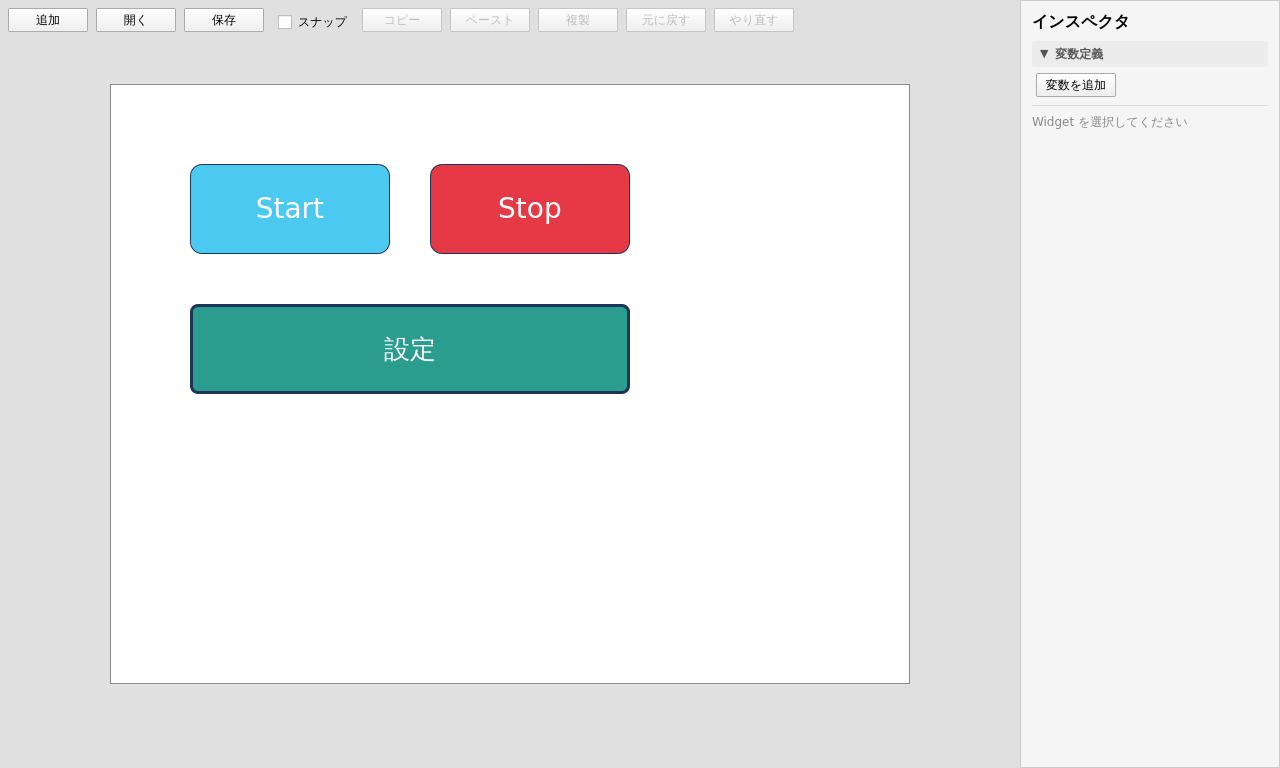
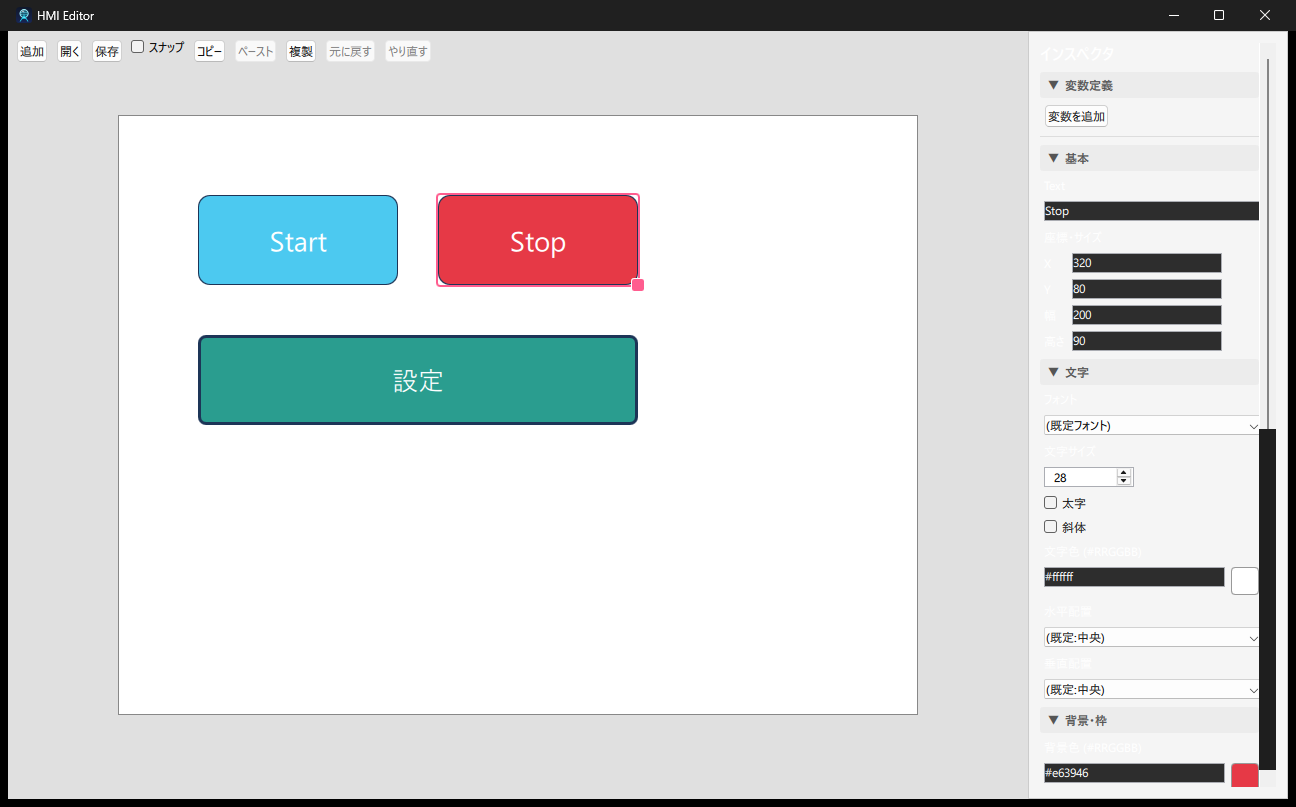
Task 46: 色入力に色スウォッチ + ColorDialog を追加（undo/redo の delegate 再利用バグ修正込み）
- 背景色 / 文字色 / ボーダー色の hex TextField の隣に ColorSwatch（現在色プレビュー）
  を追加。未指定時は Widget 種別の resolved 既定色を表示（Label は Task 48 の
  型対応までの暫定分岐）。クリックで共有 ColorDialog → #RRGGBB を live Item +
  TextField へ書き戻し（明示 beginEdit/commitEdit で 1 件 undo）
- 手入力欄・objectName・Schema は不変（E2E への影響なし）
- Canvas undo/redo 修正: 同数配列の再代入では Repeater が delegate を再利用し、
  インスペクタの命令的書き込みでバインディングが切れたプロパティに復元値が
  届かない。undo/redo で空配列を挟み delegate を確実に全再生成する
- editor.png を選択状態 + スウォッチ表示で撮り直し、README キャプション・
  進捗文書（inspector-ux-plan / development-history / CLAUDE.md / AGENTS.md /
  mvp-task-runner）を同期

diff --git a/Editor/qml/Main.qml b/Editor/qml/Main.qml
@@ -187,6 +187,29 @@ Window {
         }
     }
 
+    // Task 46: QML の color 値を Schema の "#RRGGBB" 形式へ変換する。
+    // ColorDialog の selectedColor（color 型）を hex TextField / live Item に
+    // 書き戻すときに使う（alpha は使わない。ColorDialog の alpha オプションも無効のまま）。
+    function colorToHex(c) {
+        function h(v) { return ("0" + Math.round(v * 255).toString(16)).slice(-2) }
+        return "#" + h(c.r) + h(c.g) + h(c.b)
+    }
+
+    // Task 46: 色スウォッチクリックで共有 ColorDialog を開く。field = 書き戻し先の
+    // hex TextField、targetProperty = 選択中 live Item のプロパティ名
+    //（"widgetBackgroundColor" 等）、fallback = 未指定時の既定色（HmiButton の
+    // resolved* と同じ値。ダイアログの初期色として使う）。
+    function openColorDialog(field, targetProperty, fallback) {
+        if (!canvas.selectedItem) {
+            return
+        }
+        inspectorColorDialog.targetField = field
+        inspectorColorDialog.targetProperty = targetProperty
+        inspectorColorDialog.selectedColor =
+            (field.text !== "" && field.acceptableInput) ? field.text : fallback
+        inspectorColorDialog.open()
+    }
+
     // Task 19: E2E（Spix の invokeMethod）から呼ぶ JSON 保存ラッパー。
     // FileDialog は AppleScript / Spix から自動操作できないため、Canvas 上の
     // EditableWidget 群を Shared/Schema 互換のリストへ変換 → ProjectIo.save に
@@ -327,6 +350,41 @@ Window {
         sequences: [StandardKey.Redo, "Ctrl+Shift+Z"]
         enabled: canvas.canRedo && !rootWindow.inspectorFieldFocused
         onActivated: canvas.redo()
+    }
+
+    // Task 46: hex TextField の隣に置く色スウォッチ（現在色のプレビュー兼
+    // ColorDialog の起動ボタン）。3 つの色フィールド（背景 / 文字 / ボーダー）で
+    // 使い回すインラインコンポーネント。field の hex が妥当ならその色、
+    // 空・編集途中は fallback（HmiButton の resolved* 既定色 = 実際の描画色）を見せる。
+    component ColorSwatch: Rectangle {
+        id: swatch
+        // 連動する hex TextField（現在色の参照元・ColorDialog の書き戻し先）。
+        property var field: null
+        // 選択中 live Item へ書き戻すプロパティ名（"widgetBackgroundColor" 等）。
+        property string targetProperty: ""
+        // 未指定（空文字）のとき見せる既定色。HmiButton の resolved* と揃える。
+        property color fallback: "white"
+
+        width: 28
+        height: 28
+        radius: 4
+        border.color: "#999999"
+        border.width: 1
+        color: (field && field.text !== "" && field.acceptableInput)
+            ? field.text : fallback
+
+        ToolTip.text: qsTr("クリックで色を選択")
+        ToolTip.visible: swatchArea.containsMouse
+        ToolTip.delay: 600
+
+        MouseArea {
+            id: swatchArea
+            anchors.fill: parent
+            hoverEnabled: true
+            cursorShape: Qt.PointingHandCursor
+            onClicked: rootWindow.openColorDialog(
+                swatch.field, swatch.targetProperty, swatch.fallback)
+        }
     }
 
     // 薄いグレーの余白背景
@@ -819,27 +877,49 @@ Window {
                             // 既定外観にフォールバックされる。編集は 2 本立て（onTextEdited で live
                             // Item へ書き戻し、Connections.onSelectedItemChanged で表示同期）。
                             Label { text: qsTr("文字色 (#RRGGBB)") }
-                            TextField {
-                                id: inspectorTextColorField
-                                objectName: "inspectorTextColorField"
-                                width: parent.width
-                                placeholderText: qsTr("white")
-                                // Codex PR #58 P2: 空 または 完全な #RRGGBB の時だけ反映する
-                                //（途中入力・不正値を live Item に書き戻さない）。
-                                validator: RegularExpressionValidator {
-                                    regularExpression: /^(#[0-9A-Fa-f]{6})?$/
-                                }
-                                onTextEdited: {
-                                    if (canvas.selectedItem && acceptableInput) {
-                                        canvas.selectedItem.widgetTextColor = text
+                            // Task 46: hex TextField + 色スウォッチ（プレビュー / クリックで
+                            // ColorDialog）。手入力欄はそのまま残す（E2E / 既存導線を維持）。
+                            // 幅は leftPadding（InspectorSection の content インデント）ぶん
+                            // 詰める：parent.width のままだと右端のスウォッチがインデント分
+                            // はみ出して ScrollView の clip に切られる。
+                            Row {
+                                width: parent.width - parent.leftPadding
+                                spacing: 6
+
+                                TextField {
+                                    id: inspectorTextColorField
+                                    objectName: "inspectorTextColorField"
+                                    width: parent.width - 34
+                                    placeholderText: qsTr("white")
+                                    // Codex PR #58 P2: 空 または 完全な #RRGGBB の時だけ反映する
+                                    //（途中入力・不正値を live Item に書き戻さない）。
+                                    validator: RegularExpressionValidator {
+                                        regularExpression: /^(#[0-9A-Fa-f]{6})?$/
+                                    }
+                                    onTextEdited: {
+                                        if (canvas.selectedItem && acceptableInput) {
+                                            canvas.selectedItem.widgetTextColor = text
+                                        }
+                                    }
+                                    Connections {
+                                        target: canvas
+                                        function onSelectedItemChanged() {
+                                            inspectorTextColorField.text = canvas.selectedItem
+                                                ? canvas.selectedItem.widgetTextColor : ""
+                                        }
                                     }
                                 }
-                                Connections {
-                                    target: canvas
-                                    function onSelectedItemChanged() {
-                                        inspectorTextColorField.text = canvas.selectedItem
-                                            ? canvas.selectedItem.widgetTextColor : ""
-                                    }
+                                ColorSwatch {
+                                    objectName: "inspectorTextColorSwatch"
+                                    anchors.verticalCenter: parent.verticalCenter
+                                    field: inspectorTextColorField
+                                    targetProperty: "widgetTextColor"
+                                    // 未指定時の既定色は Widget 種別の resolved* と揃える
+                                    //（HmiButton=white / HmiLabel=#1d3557。種別ごとの
+                                    // インスペクタ本対応は Task 48 で行う）。
+                                    fallback: (canvas.selectedItem
+                                               && canvas.selectedItem.widgetType === "Label")
+                                        ? "#1d3557" : "white"
                                 }
                             }
 
@@ -902,29 +982,49 @@ Window {
                             // Task 29: 背景色（"#RRGGBB" hex の TextField）。空文字は HmiButton 側で
                             // 既定外観にフォールバックされる（widgetBackgroundColor は空 = 未指定）。
                             Label { text: qsTr("背景色 (#RRGGBB)") }
-                            TextField {
-                                id: inspectorBgColorField
-                                objectName: "inspectorBgColorField"
-                                width: parent.width
-                                placeholderText: qsTr("#4cc9f0")
-                                // Codex PR #58 P2: 空 または 完全な #RRGGBB の時だけ live Item へ
-                                // 反映する。途中入力（"#ff"）や不正値（"redx"）が
-                                // widgetBackgroundColor に残ると JSON に無効色が保存され、
-                                // Simulator/Runtime の描画で無効色になるため。
-                                validator: RegularExpressionValidator {
-                                    regularExpression: /^(#[0-9A-Fa-f]{6})?$/
-                                }
-                                onTextEdited: {
-                                    if (canvas.selectedItem && acceptableInput) {
-                                        canvas.selectedItem.widgetBackgroundColor = text
+                            // Task 46: hex TextField + 色スウォッチ（プレビュー / クリックで
+                            // ColorDialog）。手入力欄はそのまま残す（E2E / 既存導線を維持）。
+                            // 幅補正は文字色の Row と同じ（leftPadding ぶん詰める）。
+                            Row {
+                                width: parent.width - parent.leftPadding
+                                spacing: 6
+
+                                TextField {
+                                    id: inspectorBgColorField
+                                    objectName: "inspectorBgColorField"
+                                    width: parent.width - 34
+                                    placeholderText: qsTr("#4cc9f0")
+                                    // Codex PR #58 P2: 空 または 完全な #RRGGBB の時だけ live Item へ
+                                    // 反映する。途中入力（"#ff"）や不正値（"redx"）が
+                                    // widgetBackgroundColor に残ると JSON に無効色が保存され、
+                                    // Simulator/Runtime の描画で無効色になるため。
+                                    validator: RegularExpressionValidator {
+                                        regularExpression: /^(#[0-9A-Fa-f]{6})?$/
+                                    }
+                                    onTextEdited: {
+                                        if (canvas.selectedItem && acceptableInput) {
+                                            canvas.selectedItem.widgetBackgroundColor = text
+                                        }
+                                    }
+                                    Connections {
+                                        target: canvas
+                                        function onSelectedItemChanged() {
+                                            inspectorBgColorField.text = canvas.selectedItem
+                                                ? canvas.selectedItem.widgetBackgroundColor : ""
+                                        }
                                     }
                                 }
-                                Connections {
-                                    target: canvas
-                                    function onSelectedItemChanged() {
-                                        inspectorBgColorField.text = canvas.selectedItem
-                                            ? canvas.selectedItem.widgetBackgroundColor : ""
-                                    }
+                                ColorSwatch {
+                                    objectName: "inspectorBgColorSwatch"
+                                    anchors.verticalCenter: parent.verticalCenter
+                                    field: inspectorBgColorField
+                                    targetProperty: "widgetBackgroundColor"
+                                    // 未指定時の既定色は Widget 種別の resolved* と揃える
+                                    //（HmiButton=#4cc9f0 / HmiLabel=transparent。種別ごとの
+                                    // インスペクタ本対応は Task 48 で行う）。
+                                    fallback: (canvas.selectedItem
+                                               && canvas.selectedItem.widgetType === "Label")
+                                        ? "transparent" : "#4cc9f0"
                                 }
                             }
 
@@ -934,27 +1034,43 @@ Window {
                             //（borderWidth=0=ボーダーなし、radius=0=角丸なし）なので、SpinBox の
                             // from を 0 にし、未指定（-1）は HmiButton の既定（太さ 1 / 角丸 4）を表示する。
                             Label { text: qsTr("ボーダー色 (#RRGGBB)") }
-                            TextField {
-                                id: inspectorBorderColorField
-                                objectName: "inspectorBorderColorField"
-                                width: parent.width
-                                placeholderText: qsTr("#1d3557")
-                                // 背景色・文字色と同じく、空 または 完全な #RRGGBB の時だけ反映する
-                                //（途中入力・不正値を live Item に書き戻さない。Codex PR #58 P2）。
-                                validator: RegularExpressionValidator {
-                                    regularExpression: /^(#[0-9A-Fa-f]{6})?$/
-                                }
-                                onTextEdited: {
-                                    if (canvas.selectedItem && acceptableInput) {
-                                        canvas.selectedItem.widgetBorderColor = text
+                            // Task 46: hex TextField + 色スウォッチ（プレビュー / クリックで
+                            // ColorDialog）。手入力欄はそのまま残す（E2E / 既存導線を維持）。
+                            // 幅補正は文字色の Row と同じ（leftPadding ぶん詰める）。
+                            Row {
+                                width: parent.width - parent.leftPadding
+                                spacing: 6
+
+                                TextField {
+                                    id: inspectorBorderColorField
+                                    objectName: "inspectorBorderColorField"
+                                    width: parent.width - 34
+                                    placeholderText: qsTr("#1d3557")
+                                    // 背景色・文字色と同じく、空 または 完全な #RRGGBB の時だけ反映する
+                                    //（途中入力・不正値を live Item に書き戻さない。Codex PR #58 P2）。
+                                    validator: RegularExpressionValidator {
+                                        regularExpression: /^(#[0-9A-Fa-f]{6})?$/
+                                    }
+                                    onTextEdited: {
+                                        if (canvas.selectedItem && acceptableInput) {
+                                            canvas.selectedItem.widgetBorderColor = text
+                                        }
+                                    }
+                                    Connections {
+                                        target: canvas
+                                        function onSelectedItemChanged() {
+                                            inspectorBorderColorField.text = canvas.selectedItem
+                                                ? canvas.selectedItem.widgetBorderColor : ""
+                                        }
                                     }
                                 }
-                                Connections {
-                                    target: canvas
-                                    function onSelectedItemChanged() {
-                                        inspectorBorderColorField.text = canvas.selectedItem
-                                            ? canvas.selectedItem.widgetBorderColor : ""
-                                    }
+                                ColorSwatch {
+                                    objectName: "inspectorBorderColorSwatch"
+                                    anchors.verticalCenter: parent.verticalCenter
+                                    field: inspectorBorderColorField
+                                    targetProperty: "widgetBorderColor"
+                                    // HmiButton.resolvedBorderColor の既定と揃える。
+                                    fallback: "#1d3557"
                                 }
                             }
 
@@ -1265,6 +1381,30 @@ Window {
             canvasHeight: 600
             anchors.verticalCenter: parent.verticalCenter
             x: (parent.width - inspector.width - width) / 2
+        }
+    }
+
+    // Task 46: 色スウォッチクリックで開く共有 ColorDialog。targetField /
+    // targetProperty を差し替えて 3 つの色（背景 / 文字 / ボーダー）で使い回す。
+    // 確定は CheckBox と同じ離散操作なので、明示 beginEdit/commitEdit で
+    // 1 操作 = 1 件を undo へ積む（フォーカス境界を通らないため。Task 38 と同型）。
+    ColorDialog {
+        id: inspectorColorDialog
+        title: qsTr("色を選択")
+        property var targetField: null
+        property string targetProperty: ""
+        onAccepted: {
+            if (!canvas.selectedItem || !targetField) {
+                return
+            }
+            // Schema は "#RRGGBB" 文字列を期待するため hex 化して書き戻す。
+            // TextField の表示も更新する（プログラム代入は textEdited を発火
+            // しないため二重書き戻しは起きない）。
+            const hex = rootWindow.colorToHex(selectedColor)
+            canvas.beginEdit()
+            canvas.selectedItem[targetProperty] = hex
+            canvas.commitEdit()
+            targetField.text = hex
         }
     }
 

diff --git a/Editor/qml/Canvas.qml b/Editor/qml/Canvas.qml
@@ -384,6 +384,11 @@ Item {
         undoStack = undoStack.slice(0, undoStack.length - 1)
         redoStack = redoStack.concat([snapshotModel()])
         selectedWidgetIds = []  // 復元で消える Item の stale 選択を避ける
+        // Task 46 で発覚：同数の配列を再代入しても Repeater が既存 delegate を再利用
+        // することがあり、インスペクタの命令的書き込みでバインディングが切れた
+        // プロパティ（色等）に復元値が届かない（live Item が新値のまま残る）。
+        // 一度空配列を挟んで delegate を確実に全破棄 → 復元状態から再生成する。
+        widgetModel = []
         widgetModel = prev
     }
 
@@ -395,6 +400,8 @@ Item {
         redoStack = redoStack.slice(0, redoStack.length - 1)
         undoStack = undoStack.concat([snapshotModel()])
         selectedWidgetIds = []
+        // undo() と同じ理由で delegate を確実に全破棄してから復元する。
+        widgetModel = []
         widgetModel = next
     }
 

diff --git a/CLAUDE.md b/CLAUDE.md
@@ -11,7 +11,7 @@
 
 Yocto / i.MX8M Plus 向け Qt6 HMI ランタイムを対象に、HMI 作画ツール（Editor）・PC 試験環境（Simulator）・実機ランタイム（Runtime）・JSON スキーマ（Shared/Schema）・共有 Widget（Shared/Widgets）を統合した開発基盤。詳細は [README.md](README.md)。タスクごとの時系列まとめ（目的 / PR / 成果物 / 学び）は [Docs/development-history.md](Docs/development-history.md) — 第三者説明用で、タスク完了時に当該 Task のエントリを追記する運用候補。**苦労の多かったタスク／フェーズでは、事実だけでなく「奮闘記」（postmortem）も残す**：障害の連鎖を「どう乗り越えたか・その時の判断と心境」まで物語として `Docs/<phase>-journey.md` に記録する（役割分担＝事実・罠は development-history / dev-environment.md、"どう抜けたか・心境" は奮闘記。初出は [Docs/phase3b-runtime-journey.md](Docs/phase3b-runtime-journey.md)）。**開発環境の現状（ホスト構成・ディスク事情・WSL/Yocto ビルド環境・実機 i.MX8MP の状態）は [.claude/rules/dev-environment.md](.claude/rules/dev-environment.md) に集約**（`.claude/rules/` は git 管理＋毎セッション自動読込される Claude Code のメモリ機構。Claude の自動メモリ `~/.claude/projects/.../memory/` はマシンローカルで Windows ↔ Mac を跨がないため、マシン横断の環境知識はこちらを正とする）。
 
-**現在のフェーズ**：**Phase 5 / 横展開（新 Widget 種別）に着手 — 最初の Widget = Label。** Phase 4〔コア縦スライス Task 25〜32 + 拡張 Task 33〜43〕は全クローズ（Task 43 の実機〔i.MX8MP〕アクション動作撮影まで到達）、続く **インスペクタ UX 改善（Task 44〜45）も完了**（横展開で散らかりが各 Widget へ波及する前にテンプレ＝インスペクタを整理。PR #94）。**Phase 5 は最初の Widget を Label（文字表示）と定めて計画を起票**（[Docs/phase5-widget-expansion-plan.md](Docs/phase5-widget-expansion-plan.md)、Task 47〜49）。Label は既存スキーマで足りるため **Schema / C++ ブリッジは無改変**で、横展開で唯一新しい **delegate の「型分岐の足場」**（`type` で HmiButton / HmiLabel を描き分ける）を導入する。binding は全 Widget・action は対話 Widget のみ＝**Label は表示専用**。**Task 47（型分岐の足場 + HmiLabel 描画）完了** — `HmiLabel.qml`（表示専用・resolved\* フォールバック・選択用 clicked relay）を新設し、Editor `Canvas.qml` / Simulator `SimulatorCanvas.qml` の delegate に `type` 分岐（Loader + inline Component の 2 分岐）を導入して `type:"Label"` を HmiLabel で描き分ける（Schema / C++ ブリッジ無改変、Label は binding のみ・action 非結線。Web `ctest` unit 10 + e2e 6 = 16/16 緑）。**次の実装は Task 48**（Editor の Label 追加 UI + インスペクタ型対応）。後続 Widget（Lamp / Gauge 等）は Label 完了後に別途承認。コア縦スライス（Task 25〜32）は完了（旧 Phase 4〔Task 25〜30〕＋旧 Phase 5〔Task 31〜32〕を 1 本の Button 縦スライスに統合。2026-06-07）。Task 30（テスト/E2E 拡充 + 実機 styled 描画）は、追加 QML テスト・E2E シナリオコード・README スクショ・**i.MX8MP 実機 styled 描画**（`Docs/screenshots/task-30-runtime-styled.png`）に加え、**macOS での E2E 実行緑まで完了し Phase 4 クローズ**（2026-06-03 確認：`ctest -L e2e` で新シナリオ `e2e_style_roundtrip` 含む E2E 5/5 緑、別途ラベル無し `ctest` で unit 8 + e2e 5 = 13/13 緑）。Phase 1 / MVP（Task 1〜8）、Phase 2 / テスト基盤導入（Task 9〜15）、Phase 3-A / E2E テスト導入（Task 16〜21）、**Phase 3-B / Runtime（Task 22〜24）** まで完了済み。Task 22 で **Simulator の QML module を STATIC 化 + 共通 CMake function `hmi_add_simulator_like_executable` で hmi_simulator / hmi_runtime の 2 バイナリを同一ソースから生成** する構成を確立。Task 23/24 で **NXP 新 BSP（scarthgap）から Qt6 入り実機 image と Qt6 クロス SDK（`meta-toolchain-qt6`）を生成し、`hmi_runtime` を aarch64 にクロスビルド → i.MX8MP 実機（weston / Wayland / Qt6 6.8.1）で Editor 由来の JSON を描画**するところまで到達（詳細は [Docs/phase3b-runtime-plan.md](Docs/phase3b-runtime-plan.md)、奮闘記 [Docs/phase3b-runtime-journey.md](Docs/phase3b-runtime-journey.md)）。E2E フレームワークに **Spix（OSS / MIT）** を採用し、Editor 配置 → JSON 保存 → Simulator 表示までの cross-app 動作を `ctest -L e2e` で検証可能。**macOS は E2E まで含む `ctest` 緑、Windows MinGW は AnyRPC の libstdc++ 衝突回避のため `HMI_ENABLE_E2E` が既定 OFF・E2E は既知スキップで通常 ctest のみ緑**（詳細は [e2e-spix](.claude/skills/e2e-spix/SKILL.md) スキル）。GitHub Actions CI は **Linux（ubuntu-latest / Qt 6.10 / 課金 1x）を毎 PR の主ゲートとし、全テスト（Task 43 時点 unit 10 + e2e 6 = 16/16）を offscreen で実行**。macOS（10x）/ Windows MinGW（2x）は課金倍率が高いため **既定では PR で走らせず**、`main` への push・手動 `workflow_dispatch`・PR ラベル `ci-desktop` のいずれかでのみ実行する（無料枠の節約。`.github/workflows/ci.yml`）。3 バイナリ構成（hmi_editor / hmi_simulator / hmi_runtime）を維持。**Phase 4 / Button 縦スライス（Task 25〜30）** は、Widget 種別を横に増やす前に **Button 1 つを全レイヤ（Schema→Widgets→Editor→Simulator→Runtime→実機）で深く作り込み「Widget 追加テンプレ」を確立**する。Task 25〜27 で選択 / インスペクタ / 座標・サイズ編集・リサイズ、**Task 28 で スタイル属性（backgroundColor / textColor / fontSize）を全レイヤ貫通**（Schema→C++ ブリッジ ProjectIo/ProjectLoader→delegate→HmiButton、既定値は HmiButton に集約し未指定はフォールバック）、**Task 29 でインスペクタのスタイル編集（hex TextField + 非 editable SpinBox）と削除（削除ボタン + Delete キー Shortcut、`Canvas.deleteWidget`）** まで完了。**Task 30 は 追加 QML テスト・E2E シナリオ `test_style_roundtrip.py`・README スクショ・実機 styled 描画（VNC digital capture）・macOS `ctest -L e2e` 緑まで完了**（旧 Phase 4 前半＝色・フォントのスタイル貫通の締め）。**Phase 4 後半（Task 31〜32）でボーダー＋角丸（`borderColor` / `borderWidth` / `radius`）を同じテンプレで追加**（旧 Phase 5 を統合）。Task 31 で全レイヤ貫通（Schema→C++ ブリッジ→delegate→HmiButton→インスペクタ + unit テスト。`0` が正当値の数値を `-1` センチネルで optional 化、インスペクタを ScrollView 化）をマージ済み（PR #64）。Task 32 で E2E（`e2e_style_roundtrip`）に border / radius round-trip を追加し、macOS `ctest` で unit 8 + e2e 5 = 13/13 緑（数値プロパティは `getStringProperty` を `int(float())` で読み、border 色は resolved 既定 `#1d3557` と別値にしてフォールバック取り違えを回避。実機 border 再撮影は plan で「任意」のため省略＝Task 30 で styled 実機描画パスは実証済み。PR #66）。タスク分割・完了基準は [Docs/phase4-button-slice-plan.md](Docs/phase4-button-slice-plan.md) を参照。**コア縦スライス（Task 25〜32）は完了**。続く **Phase 4 拡張（Task 33〜43、2026-06-07 承認）も完了（Task 33〜43 完了。PR #69〜#87 + 実機撮影）**：①静的スタイルの続き（T33〜34＝フォント詳細 / 配置 / opacity）→②編集体験の強化（T35〜38＝グリッドスナップ / 複数選択・整列 / コピペ / undo-redo・Editor のみ）→③状態 / アクション（T39〜43＝変数ストア + アクション + 状態別スタイル + 実機。**全 Widget が使う横断サブシステム**だが Button を駆動役にしつつ **Widget 非依存に設計**＝トラック B）を消化済み。最新テストは Linux/Web で unit 10 + e2e 6 = 16/16 緑。**Task 43 の実機（i.MX8MP）アクション動作撮影も完了**（`Docs/screenshots/task-43-runtime-action.png`：最新ソースを aarch64 クロスビルド → 実機更新 → 新ヘルパー `scripts/yocto/vnc-click-capture.py` で TOGGLE ボタンに VNC ポインタクリックを送り、`toggleVariable`→binding でランプが消える状態遷移を before/after 合成で記録）。**Phase 5（横展開）の最初の Widget = Label は承認済み**（plan 起票 = [Docs/phase5-widget-expansion-plan.md](Docs/phase5-widget-expansion-plan.md)）。後続 Widget（Lamp / Gauge 等）のみ Label 完了後に別途承認する。進捗の正本：Phase 4 は [Docs/phase4-button-slice-plan.md](Docs/phase4-button-slice-plan.md)「進捗」表、インスペクタ UX は [Docs/inspector-ux-plan.md](Docs/inspector-ux-plan.md)、Phase 5 は [Docs/phase5-widget-expansion-plan.md](Docs/phase5-widget-expansion-plan.md)「進捗」表。
+**現在のフェーズ**：**Phase 5 / 横展開（新 Widget 種別）に着手 — 最初の Widget = Label。** Phase 4〔コア縦スライス Task 25〜32 + 拡張 Task 33〜43〕は全クローズ（Task 43 の実機〔i.MX8MP〕アクション動作撮影まで到達）、続く **インスペクタ UX 改善（Task 44〜46）も完了**（横展開で散らかりが各 Widget へ波及する前にテンプレ＝インスペクタを整理。T44〜45 セクション化 + ラベル言い換え = PR #94、T46 色スウォッチ + ColorDialog〔undo/redo の delegate 再利用バグ修正込み〕）。**Phase 5 は最初の Widget を Label（文字表示）と定めて計画を起票**（[Docs/phase5-widget-expansion-plan.md](Docs/phase5-widget-expansion-plan.md)、Task 47〜49）。Label は既存スキーマで足りるため **Schema / C++ ブリッジは無改変**で、横展開で唯一新しい **delegate の「型分岐の足場」**（`type` で HmiButton / HmiLabel を描き分ける）を導入する。binding は全 Widget・action は対話 Widget のみ＝**Label は表示専用**。**Task 47（型分岐の足場 + HmiLabel 描画）完了** — `HmiLabel.qml`（表示専用・resolved\* フォールバック・選択用 clicked relay）を新設し、Editor `Canvas.qml` / Simulator `SimulatorCanvas.qml` の delegate に `type` 分岐（Loader + inline Component の 2 分岐）を導入して `type:"Label"` を HmiLabel で描き分ける（Schema / C++ ブリッジ無改変、Label は binding のみ・action 非結線。Web `ctest` unit 10 + e2e 6 = 16/16 緑）。**次の実装は Task 48**（Editor の Label 追加 UI + インスペクタ型対応）。後続 Widget（Lamp / Gauge 等）は Label 完了後に別途承認。コア縦スライス（Task 25〜32）は完了（旧 Phase 4〔Task 25〜30〕＋旧 Phase 5〔Task 31〜32〕を 1 本の Button 縦スライスに統合。2026-06-07）。Task 30（テスト/E2E 拡充 + 実機 styled 描画）は、追加 QML テスト・E2E シナリオコード・README スクショ・**i.MX8MP 実機 styled 描画**（`Docs/screenshots/task-30-runtime-styled.png`）に加え、**macOS での E2E 実行緑まで完了し Phase 4 クローズ**（2026-06-03 確認：`ctest -L e2e` で新シナリオ `e2e_style_roundtrip` 含む E2E 5/5 緑、別途ラベル無し `ctest` で unit 8 + e2e 5 = 13/13 緑）。Phase 1 / MVP（Task 1〜8）、Phase 2 / テスト基盤導入（Task 9〜15）、Phase 3-A / E2E テスト導入（Task 16〜21）、**Phase 3-B / Runtime（Task 22〜24）** まで完了済み。Task 22 で **Simulator の QML module を STATIC 化 + 共通 CMake function `hmi_add_simulator_like_executable` で hmi_simulator / hmi_runtime の 2 バイナリを同一ソースから生成** する構成を確立。Task 23/24 で **NXP 新 BSP（scarthgap）から Qt6 入り実機 image と Qt6 クロス SDK（`meta-toolchain-qt6`）を生成し、`hmi_runtime` を aarch64 にクロスビルド → i.MX8MP 実機（weston / Wayland / Qt6 6.8.1）で Editor 由来の JSON を描画**するところまで到達（詳細は [Docs/phase3b-runtime-plan.md](Docs/phase3b-runtime-plan.md)、奮闘記 [Docs/phase3b-runtime-journey.md](Docs/phase3b-runtime-journey.md)）。E2E フレームワークに **Spix（OSS / MIT）** を採用し、Editor 配置 → JSON 保存 → Simulator 表示までの cross-app 動作を `ctest -L e2e` で検証可能。**macOS は E2E まで含む `ctest` 緑、Windows MinGW は AnyRPC の libstdc++ 衝突回避のため `HMI_ENABLE_E2E` が既定 OFF・E2E は既知スキップで通常 ctest のみ緑**（詳細は [e2e-spix](.claude/skills/e2e-spix/SKILL.md) スキル）。GitHub Actions CI は **Linux（ubuntu-latest / Qt 6.10 / 課金 1x）を毎 PR の主ゲートとし、全テスト（Task 43 時点 unit 10 + e2e 6 = 16/16）を offscreen で実行**。macOS（10x）/ Windows MinGW（2x）は課金倍率が高いため **既定では PR で走らせず**、`main` への push・手動 `workflow_dispatch`・PR ラベル `ci-desktop` のいずれかでのみ実行する（無料枠の節約。`.github/workflows/ci.yml`）。3 バイナリ構成（hmi_editor / hmi_simulator / hmi_runtime）を維持。**Phase 4 / Button 縦スライス（Task 25〜30）** は、Widget 種別を横に増やす前に **Button 1 つを全レイヤ（Schema→Widgets→Editor→Simulator→Runtime→実機）で深く作り込み「Widget 追加テンプレ」を確立**する。Task 25〜27 で選択 / インスペクタ / 座標・サイズ編集・リサイズ、**Task 28 で スタイル属性（backgroundColor / textColor / fontSize）を全レイヤ貫通**（Schema→C++ ブリッジ ProjectIo/ProjectLoader→delegate→HmiButton、既定値は HmiButton に集約し未指定はフォールバック）、**Task 29 でインスペクタのスタイル編集（hex TextField + 非 editable SpinBox）と削除（削除ボタン + Delete キー Shortcut、`Canvas.deleteWidget`）** まで完了。**Task 30 は 追加 QML テスト・E2E シナリオ `test_style_roundtrip.py`・README スクショ・実機 styled 描画（VNC digital capture）・macOS `ctest -L e2e` 緑まで完了**（旧 Phase 4 前半＝色・フォントのスタイル貫通の締め）。**Phase 4 後半（Task 31〜32）でボーダー＋角丸（`borderColor` / `borderWidth` / `radius`）を同じテンプレで追加**（旧 Phase 5 を統合）。Task 31 で全レイヤ貫通（Schema→C++ ブリッジ→delegate→HmiButton→インスペクタ + unit テスト。`0` が正当値の数値を `-1` センチネルで optional 化、インスペクタを ScrollView 化）をマージ済み（PR #64）。Task 32 で E2E（`e2e_style_roundtrip`）に border / radius round-trip を追加し、macOS `ctest` で unit 8 + e2e 5 = 13/13 緑（数値プロパティは `getStringProperty` を `int(float())` で読み、border 色は resolved 既定 `#1d3557` と別値にしてフォールバック取り違えを回避。実機 border 再撮影は plan で「任意」のため省略＝Task 30 で styled 実機描画パスは実証済み。PR #66）。タスク分割・完了基準は [Docs/phase4-button-slice-plan.md](Docs/phase4-button-slice-plan.md) を参照。**コア縦スライス（Task 25〜32）は完了**。続く **Phase 4 拡張（Task 33〜43、2026-06-07 承認）も完了（Task 33〜43 完了。PR #69〜#87 + 実機撮影）**：①静的スタイルの続き（T33〜34＝フォント詳細 / 配置 / opacity）→②編集体験の強化（T35〜38＝グリッドスナップ / 複数選択・整列 / コピペ / undo-redo・Editor のみ）→③状態 / アクション（T39〜43＝変数ストア + アクション + 状態別スタイル + 実機。**全 Widget が使う横断サブシステム**だが Button を駆動役にしつつ **Widget 非依存に設計**＝トラック B）を消化済み。最新テストは Linux/Web で unit 10 + e2e 6 = 16/16 緑。**Task 43 の実機（i.MX8MP）アクション動作撮影も完了**（`Docs/screenshots/task-43-runtime-action.png`：最新ソースを aarch64 クロスビルド → 実機更新 → 新ヘルパー `scripts/yocto/vnc-click-capture.py` で TOGGLE ボタンに VNC ポインタクリックを送り、`toggleVariable`→binding でランプが消える状態遷移を before/after 合成で記録）。**Phase 5（横展開）の最初の Widget = Label は承認済み**（plan 起票 = [Docs/phase5-widget-expansion-plan.md](Docs/phase5-widget-expansion-plan.md)）。後続 Widget（Lamp / Gauge 等）のみ Label 完了後に別途承認する。進捗の正本：Phase 4 は [Docs/phase4-button-slice-plan.md](Docs/phase4-button-slice-plan.md)「進捗」表、インスペクタ UX は [Docs/inspector-ux-plan.md](Docs/inspector-ux-plan.md)、Phase 5 は [Docs/phase5-widget-expansion-plan.md](Docs/phase5-widget-expansion-plan.md)「進捗」表。
 
 ---
 

diff --git a/.claude/agents/mvp-task-runner.md b/.claude/agents/mvp-task-runner.md
@@ -17,7 +17,7 @@ model: opus
 - Phase 3-B / Runtime（Task 22〜24）：✅ 完了済み（CMake glue + Yocto SDK aarch64 クロスビルド + i.MX8MP 実機描画。新 BSP scarthgap / Qt6 6.8.1）
 - **Phase 4 / Button 縦スライス（Task 25〜32）**：✅ 完了済み（旧 Phase 4〔Task 25〜30〕＋旧 Phase 5〔Task 31〜32〕を 1 本に統合）。選択・インスペクタ・リサイズ・削除・スタイル属性〔色・フォント・ボーダー・角丸〕の全レイヤ貫通・テスト/E2E 拡充・実機 styled 描画まで＝「Widget 追加テンプレ」確立。設計指針・Must Never・`-1` センチネル設計は `Docs/phase4-button-slice-plan.md` を参照。要点：①widgetModel は `var` 配列据え置き（編集中は live `EditableWidget` が真実、構造変更時のみ Items→配列スナップショット後に再代入、選択は id 追跡）②編集 UI は Editor のみ（Simulator/Runtime は読み取り専用）③Schema 新フィールドは optional + `isValidJson` 必須集合据え置き（`0` が正当値の数値は `-1` センチネル）④新スタイルは `HmiButton` に公開し Editor / Simulator 双方の delegate に渡す（Runtime はソース共有で自動）。
 - **Phase 4 拡張（Task 33〜43・2026-06-07 承認）**：✅ 完了済み（PR #69〜#87 + 実機撮影。A=フォント詳細 / 配置 / opacity、C=グリッドスナップ / 複数選択・整列 / コピペ / undo-redo、B=変数ストア / アクション編集 / Simulator・Runtime 実行 / 状態別スタイル / アクション round-trip E2E + 実機〔i.MX8MP〕アクション動作撮影）。進捗の正本は `Docs/phase4-button-slice-plan.md`「進捗」表。
-- **インスペクタ UX 改善（Task 44〜45）**：✅ 完了済み（PR #94。横展開前にテンプレ＝インスペクタをセクション化・整理。objectName / Schema 不変。`Docs/inspector-ux-plan.md`）。
+- **インスペクタ UX 改善（Task 44〜46）**：✅ 完了済み（T44〜45 = PR #94〔セクション化・整理〕、T46 = 色スウォッチ + ColorDialog。objectName / Schema 不変。`Docs/inspector-ux-plan.md`）。
 - **Phase 5 / 横展開（新 Widget 種別）**：🟦 着手 — **最初の Widget = Label（承認済み）**。タスク分割は `Docs/phase5-widget-expansion-plan.md`（**Task 47** 型分岐の足場 + HmiLabel 描画 / **48** Editor で Label 作成 + インスペクタ型対応 / **49** round-trip + binding + E2E + スクショ。**Task 47 完了**＝`HmiLabel.qml` 新設 + Editor/Simulator delegate に `type` 分岐〔Loader + 2 Component〕導入・Web `ctest` 16/16 緑。**次は Task 48**）。要点：①Label は既存スキーマで足り **Schema / C++ ブリッジ無改変**（`type` は既に round-trip、全スタイルフィールド既存、`isValidJson` は id/type/width/height のみ必須で充足）②横展開で唯一新しいのは **delegate の「型分岐の足場」**＝現状 `Canvas.qml`/`SimulatorCanvas.qml` が常に HmiButton を生成している箇所を `type` で分岐（Loader + 2 Component）③binding（読み）は全 Widget・action（書き）は対話 Widget のみ＝**Label は表示専用で binding のみ**④`HmiLabel` も `clicked(int modifiers)` を持たせ Editor 選択結線を一様化。**後続 Widget（Lamp / Gauge / Image 等）は Label 完了後に別途承認**（自動着手しない）。
 
 ## 実行手順

diff --git a/Docs/development-history.md b/Docs/development-history.md
@@ -229,12 +229,14 @@ timeline
 
 ---
 
-## インスペクタ UX 改善（Task 44〜45）
+## インスペクタ UX 改善（Task 44〜46）
 
 **目標**：横展開（新 Widget 種別）で同じ散らかりが各 Widget へ波及する前に、テンプレ＝右側インスペクタを綺麗にしてから増やす。
 **計画書**：[Docs/inspector-ux-plan.md](inspector-ux-plan.md)
 
 - **Task 44〜45**：✅ 完了（PR [#94](https://github.com/hang-up33/hmi-platform/pull/94)）。`InspectorSection`（折りたたみヘッダ + Column）を導入し平坦な約 20 項目を 6 セクション（基本 / 文字 / 背景・枠 / 状態 / 動作 / 詳細）＋変数定義へ再編、分かりづらいラベルを言い換え（`チェック可能`→`トグルボタンにする` 等）＋ hover ツールチップ。**スキーマ・round-trip・objectName は不変**で unit 10 + e2e 6 = 16/16 緑。
+- **Task 46（任意）**：✅ 完了。背景色 / 文字色 / ボーダー色の hex TextField の隣に **色スウォッチ**（現在色プレビュー。未指定は Widget 種別の resolved 既定色を表示）を追加し、クリックで共有 `ColorDialog` → `#RRGGBB` を live Item + TextField へ書き戻す（明示 beginEdit/commitEdit で 1 件 undo）。手入力欄・objectName は不変。
+  - **学び（undo/redo の潜在バグ修正）**：検証中に「色変更 → undo で巻き戻らない」を発見。原因は **同数の配列を `widgetModel` に再代入しても Repeater が既存 delegate を再利用することがあり**、インスペクタの命令的書き込み（`selectedItem.widget* = value`）でバインディングが切れたプロパティへ復元値が届かないこと。undo/redo で **一度空配列を挟んで delegate を確実に全再生成**して修正（Windows の Win32 クリック注入で色変更→undo→redo の round-trip を実証）。tst_canvas の既存 undo テストは JS 配列リテラル由来のモデルで再現せず素通りしていた。
 
 ---
 

diff --git a/Docs/inspector-ux-plan.md b/Docs/inspector-ux-plan.md
@@ -108,7 +108,7 @@ flowchart TD
 |---|---|---|
 | 44 セクション化 + 再配置 | ✅ 完了 | PR #94（`InspectorSection.qml` 導入・6 セクションへ再編・変数定義も折りたたみ化。objectName/Schema 不変で unit 10 + e2e 6 = 16/16 緑・editor.png 更新） |
 | 45 分かりづらいプロパティ整理 | ✅ 完了 | PR #94（`チェック可能`→`トグルボタンにする`・`チェック状態`→`初期状態をオン`・`Tag`→`外部タグ（PLC等）`へリネーム + 主要項目に hover ToolTip。objectName/Schema 不変で 16/16 緑） |
-| 46 色スウォッチ（任意） | 未着手 | — |
+| 46 色スウォッチ（任意） | ✅ 完了 | PR #98（背景色 / 文字色 / ボーダー色の hex TextField 隣に `ColorSwatch`〔現在色プレビュー・未指定は resolved 既定色をフォールバック表示〕を追加。クリックで共有 `ColorDialog` → `#RRGGBB` を live Item + TextField へ書き戻し（明示 beginEdit/commitEdit で 1 件 undo）。手入力欄・objectName は不変。**併せて undo/redo の潜在バグを修正**：同数配列の再代入では Repeater が delegate を再利用し、インスペクタの命令的書き込みでバインディングが切れたプロパティに復元値が届かないことがある → undo/redo で空配列を挟み delegate を確実に全再生成。Windows GUI 自動操作で色変更→undo→redo の round-trip を実証） |
 
 > **本計画完了後に Phase 5（横展開＝新 Widget 種別）へ進む**。Phase 5 は **最初の Widget = Label** として
 > [phase5-widget-expansion-plan.md](phase5-widget-expansion-plan.md) に具体化済み（Task 47〜49）。後続 Widget は Label 完了後に別途承認。
